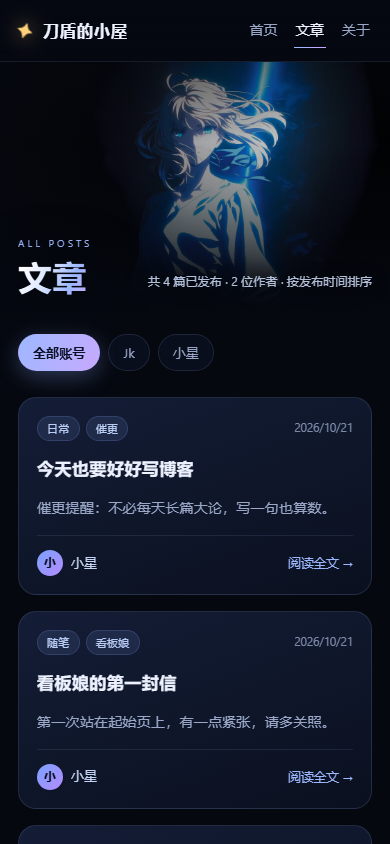
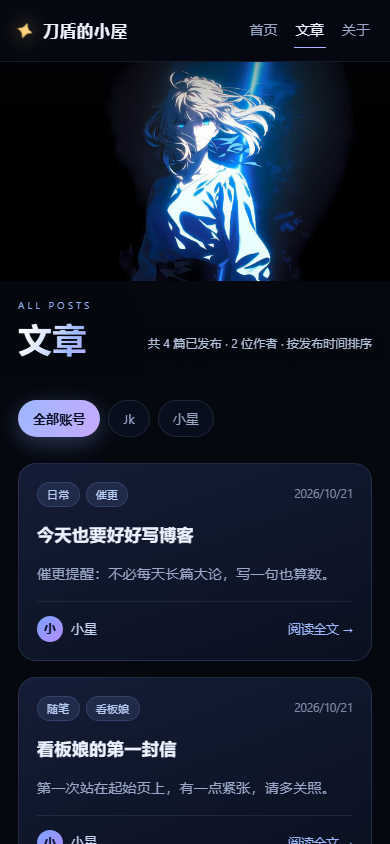
fix: 文章页横图完整显示，桌面端用同图模糊铺底
- 图片改为在横幅内按 16:9 完整缩放显示（不再用固定高度 + cover 裁切，避免桌面端只剩头部）
- 桌面横幅高度 clamp(360px, 64vh, 720px)，两侧用同一张图模糊铺底填满，图片左右边缘羽化过渡
- 手机端保持整幅铺满宽度、标题和统计在图片下方
- 截图工具 capture.mjs 增加禁用缓存，避免验收截到旧 CSS；更新验收截图与文档

diff --git a/web/css/style.css b/web/css/style.css
@@ -995,7 +995,7 @@ img {
     );
 }
 
-/* 第二页顶部横图：文章页用自己的一张图，不再铺首页背景 */
+/* 第二页顶部横图：文章页用自己的一张图，完整显示、不裁切 */
 
 .articles-page {
   background: #05080f;
@@ -1005,27 +1005,42 @@ img {
   position: relative;
   isolation: isolate;
   overflow: hidden;
-  height: clamp(300px, 46vh, 460px);
-  /* 和下方文章区同色：图片底部渐隐后直接融进文章区，不留硬边 */
+  /* 高度随视口收一点，保证整张图能完整出现，又不会把文章全顶到屏幕外 */
+  height: clamp(360px, 64vh, 720px);
   background: #05080f;
 }
 
-.articles-hero-img {
+/* 同一张图模糊铺底：图片按 16:9 完整居中时，两侧空出来的区域也有内容 */
+.articles-hero-backdrop {
+  position: absolute;
+  inset: -8%;
+  z-index: 0;
+  background-image: url("/assets/articles-hero.jpg");
+  background-position: center;
+  background-size: cover;
+  filter: blur(42px) saturate(0.85) brightness(0.52);
+  transform: scale(1.08);
+  animation: articles-hero-bg-in 1.4s ease both;
+}
+
+.articles-hero-frame {
   position: absolute;
   inset: 0;
-  z-index: -2;
-  width: 100%;
-  height: 100%;
-  object-fit: cover;
-  object-position: center 10%;
-  -webkit-mask-image: linear-gradient(
-    180deg,
-    #000 0%,
-    #000 56%,
-    rgba(0, 0, 0, 0.72) 78%,
-    transparent 100%
-  );
-  mask-image: linear-gradient(180deg, #000 0%, #000 56%, rgba(0, 0, 0, 0.72) 78%, transparent 100%);
+  z-index: 1;
+  display: flex;
+  align-items: center;
+  justify-content: center;
+}
+
+.articles-hero-img {
+  display: block;
+  width: auto;
+  height: auto;
+  max-width: 100%;
+  max-height: 100%;
+  /* 左右边缘轻轻羽化，和后面的模糊铺底自然接上，不留直线接缝 */
+  -webkit-mask-image: linear-gradient(90deg, transparent 0%, #000 8%, #000 92%, transparent 100%);
+  mask-image: linear-gradient(90deg, transparent 0%, #000 8%, #000 92%, transparent 100%);
   animation: articles-hero-in 1.2s cubic-bezier(0.22, 0.8, 0.24, 1) both;
 }
 
@@ -1033,20 +1048,23 @@ img {
   content: "";
   position: absolute;
   inset: 0;
-  z-index: -1;
+  z-index: 2;
+  pointer-events: none;
   background:
     linear-gradient(
       180deg,
-      rgba(5, 8, 15, 0.55) 0%,
-      rgba(5, 8, 15, 0.2) 32%,
-      rgba(5, 8, 15, 0.55) 70%,
-      #05080f 100%
+      rgba(5, 8, 15, 0.5) 0%,
+      rgba(5, 8, 15, 0.08) 26%,
+      rgba(5, 8, 15, 0.06) 58%,
+      rgba(5, 8, 15, 0.55) 88%,
+      rgba(5, 8, 15, 0.96) 100%
     ),
-    linear-gradient(90deg, rgba(5, 8, 15, 0.8) 0%, rgba(5, 8, 15, 0.24) 48%, rgba(5, 8, 15, 0) 74%);
+    linear-gradient(90deg, rgba(5, 8, 15, 0.5) 0%, rgba(5, 8, 15, 0.06) 40%, rgba(5, 8, 15, 0) 60%);
 }
 
 .articles-hero-inner {
   position: absolute;
+  z-index: 3;
   right: 0;
   bottom: 0;
   left: 0;
@@ -1055,7 +1073,7 @@ img {
 .articles-hero .page-head {
   width: min(1200px, 100%);
   margin: 0 auto;
-  padding: 0 clamp(20px, 5vw, 48px) clamp(18px, 3vh, 30px);
+  padding: 0 clamp(20px, 5vw, 48px) clamp(22px, 4vh, 40px);
   animation: rise-in 0.9s cubic-bezier(0.22, 0.8, 0.24, 1) 0.16s both;
 }
 
@@ -1702,6 +1720,16 @@ img {
   }
 }
 
+/* 模糊铺底单独淡入，比前景图慢一点，避免两侧先亮起来 */
+@keyframes articles-hero-bg-in {
+  from {
+    opacity: 0;
+  }
+  to {
+    opacity: 1;
+  }
+}
+
 /* ------------------------------------------------------------------
    响应式
    ------------------------------------------------------------------ */
@@ -1724,10 +1752,6 @@ img {
 
   .scroll-hint {
     display: none;
-  }
-
-  .articles-hero {
-    height: clamp(280px, 40vh, 400px);
   }
 
   .topbar-badge {
@@ -1817,17 +1841,39 @@ img {
     font-size: 0.82rem;
   }
 
+  /* 手机上整幅图铺满宽度，标题和统计移到图下面，避免挡住插画 */
   .articles-hero {
-    height: 250px;
+    height: auto;
+  }
+
+  .articles-hero-backdrop {
+    display: none;
+  }
+
+  .articles-hero-frame {
+    position: static;
+    display: block;
   }
 
   .articles-hero-img {
-    object-position: center 18%;
+    width: 100%;
+    max-width: none;
+    max-height: none;
+    -webkit-mask-image: none;
+    mask-image: none;
+  }
+
+  .articles-hero::after {
+    background: linear-gradient(180deg, rgba(5, 8, 15, 0.35) 0%, rgba(5, 8, 15, 0) 20%);
+  }
+
+  .articles-hero-inner {
+    position: static;
   }
 
   .articles-hero .page-head {
     align-items: flex-end;
-    padding: 0 18px 16px;
+    padding: 16px 18px 20px;
   }
 
   .articles-hero .page-title {

diff --git a/web/articles.html b/web/articles.html
@@ -30,15 +30,18 @@
 
     <main class="articles-page">
       <section class="articles-hero" aria-labelledby="page-title">
-        <img
-          class="articles-hero-img"
-          src="/assets/articles-hero.jpg"
-          alt=""
-          width="1280"
-          height="720"
-          decoding="async"
-          fetchpriority="high"
-        />
+        <div class="articles-hero-backdrop" aria-hidden="true"></div>
+        <div class="articles-hero-frame">
+          <img
+            class="articles-hero-img"
+            src="/assets/articles-hero.jpg"
+            alt=""
+            width="1280"
+            height="720"
+            decoding="async"
+            fetchpriority="high"
+          />
+        </div>
         <div class="articles-hero-inner">
           <div class="page-head">
             <div>

diff --git a/README.md b/README.md
@@ -179,7 +179,7 @@ app.close();
 - **关于页**：独立页面 `/about`，标题 / 正文 / 技术标签都存在主库 `site_settings` 里，由 `/js/about.js` 从 `/api/site` 读取渲染；首页不再显示关于区块。
 - **顶部导航**：首页 / 文章 / 关于；「文章」进入第二页 `/articles`。
 - **首页最新文章**：跨账号 Feed；顶部胶囊可按账号筛选，对应「分库」结构；右上角「查看全部文章」进入第二页。
-- **第二页（文章列表）**：`/articles`，专门放文章——顶部是文章页自己的横图（`web/assets/articles-hero.jpg`，不再铺首页背景），图片底部渐隐进下方整块不透明的文章列表，图片与列表都有淡入过渡；跨账号分页 + 账号筛选胶囊 + 「加载更多」；筛选条件会写进 `?account=<账号>`，方便分享；每张卡片整张可点，跳到独立文章页。
+- **第二页（文章列表）**：`/articles`，专门放文章——顶部是文章页自己的横图（`web/assets/articles-hero.jpg`，不再铺首页背景）：桌面端完整居中显示、两侧同图模糊铺底，手机端整幅铺满宽度；图片底部渐隐进下方整块不透明的文章列表，图片与列表都有淡入过渡；跨账号分页 + 账号筛选胶囊 + 「加载更多」；筛选条件会写进 `?account=<账号>`，方便分享；每张卡片整张可点，跳到独立文章页。
 - **文章独立页面**：`/articles/<账号>/<id>`（`id` 是账号库内 ID，所以要带账号名），直接渲染 Markdown 正文、作者、日期、阅读数和标签；文章不存在 / 未发布时显示错误态和返回入口。
 - **阅读弹窗**：首页卡片仍然打开弹窗快速预览（内置安全的极简 Markdown 渲染器：先整体转义，再渲染）；弹窗底部有「在独立页面打开」可跳到文章页。
 - **文章深链**：`/?post=xiaoxing:1` 在首页直接打开阅读弹窗；`/articles/xiaoxing/1` 则是可分享的独立文章页面。

diff --git a/docs/background-spec.md b/docs/background-spec.md
@@ -82,13 +82,13 @@
 
 ## 文章页顶部横图（articles-hero.jpg）
 
-第二页 `/articles` 顶部用一张独立的横图，**不复用首页背景**：图片铺满顶部横幅，标题和数据叠在底部深色渐变上，图片底部渐隐融入下方整块不透明的文章列表（打开页面时图片和列表都有淡入过渡，系统开启「减少动态效果」时关闭）。
+第二页 `/articles` 顶部用一张独立的横图，**不复用首页背景**：图片按 16:9 完整显示（不裁切）——桌面端居中显示、两侧用同一张图模糊铺底填满，图片左右边缘羽化过渡；手机端整幅铺满宽度、标题和统计移到图片下方。图片底部渐隐融入下方整块不透明的文章列表（打开页面时图片和列表都有淡入过渡，系统开启「减少动态效果」时关闭）。
 
 | 文件 | 实际尺寸 | 说明 |
 | --- | --- | --- |
 | `web/assets/articles-hero.jpg` | 1280 × 720（16:9） | 白发少女插画（用户提供），JPG，约 106KB |
 
-- 显示尺寸由 CSS 控制：高度 `clamp(300px, 46vh, 460px)`，`object-fit: cover` + `object-position: center 10%`；所以**人物头部靠上**的构图最合适，超宽屏会左右裁切，重要内容放中间即可。
+- 显示尺寸由 CSS 控制：桌面横幅高度 `clamp(360px, 64vh, 720px)`，图片按原始比例缩放到横幅内完整显示（`max-width/max-height: 100%`），两侧是同图模糊铺底；手机端整幅铺满宽度（约 16:9 高度）。
 - 左侧约 40% 会叠横向深色渐变来衬托「文章」标题，主体放中间偏右、左侧尽量干净。
 - 换图直接覆盖同名文件即可，不需要改代码。
 
